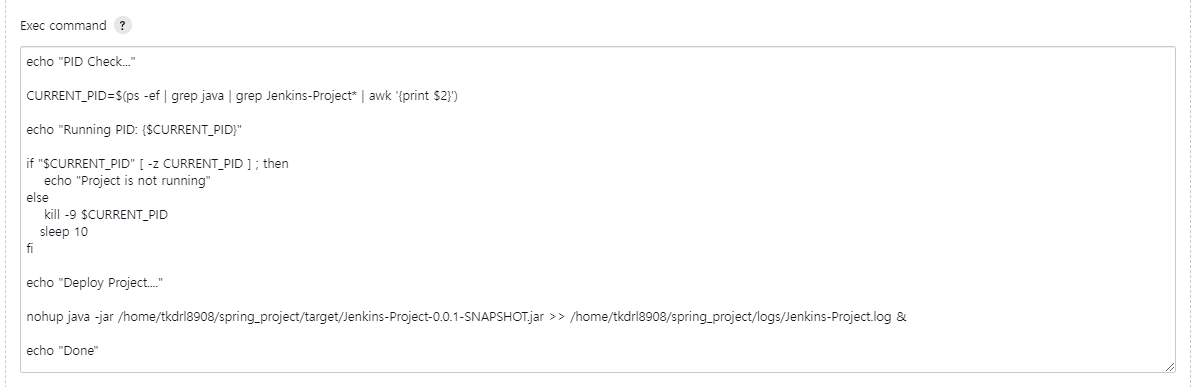
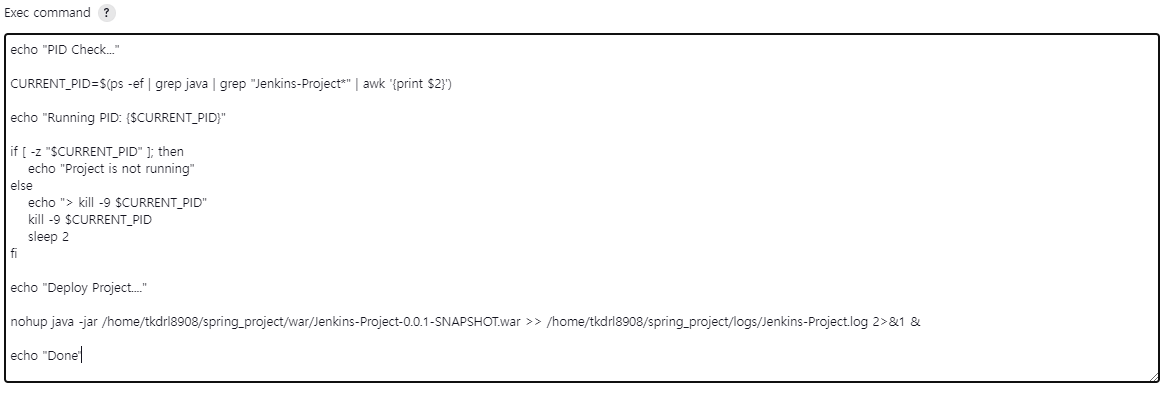
feat: jenkins github webhook post

Changed region(s): [[0.0, 0.0, 1.0, 0.9922]]

diff --git a/_posts/2023-07-18-jenkins(3).md b/_posts/2023-07-18-jenkins(3).md
@@ -1,5 +1,5 @@
 ---
-title: Jenkins 자동화 배포(3)
+title: Jenkins 자동빌드 및 배포(3)
 author: SangkiHan
 date: 2023-07-18 09:39:00 +0900
 categories: [CI/CD, Jenkins]
@@ -34,22 +34,21 @@ Jenkins-Project부분은 생성한 프로젝트명으로 바꿔주면된다.
 ```bash
 echo "PID Check..."
 
-# Jenkins-Project로 실행되고있는 PID찾기
-CURRENT_PID=$(ps -ef | grep java | grep Jenkins-Project* | awk '{print $2}')
+CURRENT_PID=$(ps -ef | grep java | grep "Jenkins-Project*" | awk '{print $2}')
 
 echo "Running PID: {$CURRENT_PID}"
 
-if "$CURRENT_PID" [ -z CURRENT_PID ] ; then
+if [ -z "$CURRENT_PID" ]; then
     echo "Project is not running"
-else
-# 있다면 강제 종료
+else
+    echo "> kill -9 $CURRENT_PID"
     kill -9 $CURRENT_PID
-   sleep 10 
+    sleep 2
 fi
 
 echo "Deploy Project...."
-# nohup으로 war파일 실행
-nohup java -jar /home/tkdrl8908/spring_project/target/Jenkins-Project-0.0.1-SNAPSHOT.war >> /home/tkdrl8908/spring_project/logs/Jenkins-Project.log &
+
+nohup java -jar /home/tkdrl8908/spring_project/war/Jenkins-Project-0.0.1-SNAPSHOT.war >> /home/tkdrl8908/spring_project/logs/Jenkins-Project.log 2>&1 &
 
 echo "Done"
 ```
@@ -63,3 +62,10 @@ echo "Done"
 ### 실행 포트 확인
 아래 명령어를 입력하면 정상적으로 application.properties에 설정되어있는 포트로 정상적으로 올라간 것을 확인 할 수 있다.
 ![Jenkins](/assets/img/post/2023-07-18-Jenkins(3)/7.PNG)
+
+```오류```
+처음에는 잘 실행이 됐지만 재실행을 하니 아래와 같이 오류가 발생하였다.  
+![Jenkins](/assets/img/post/2023-07-18-Jenkins(3)/8.PNG)
+아무리 수정해도 오류가 없어지지 않아.. /home/tkdrl8908 경로에 Script를 생성하여 그대로 실행하니 잘 실행이 되서 아래와 같이 수정하였다.
+![Jenkins](/assets/img/post/2023-07-18-Jenkins(3)/9.PNG)
+![Jenkins](/assets/img/post/2023-07-18-Jenkins(3)/10.PNG)

diff --git a/_posts/2023-07-18-Jenkins(4).md b/_posts/2023-07-18-Jenkins(4).md
@@ -1,0 +1,41 @@
+---
+title: Jenkins Webhook을 이용한 자동화배포(4)
+author: SangkiHan
+date: 2023-07-18 09:39:00 +0900
+categories: [CI/CD, Jenkins]
+tags: [CI/CD]
+---
+------------
+
+# Webhook이란?
+Webhook이란 앱이나 웹에서 이벤트가 생겼을 시 이벤트의 정보를 제공하는 기능이다.  
+이러한 기능을 Github에서 제공한다.  
+이 기능을 이용하여 Github에 소스가 Push가 됐을 시 Jenkins에게 이벤트정보를 전달하여 빌드 시작을 누르지 않더라도 자동화배포가 될 수 있도록 구성 할 것이다.
+
+------------
+# Github설정
+Jenkins에 생성한 Github Repo로 들어가 Settings를 들어가면 아래와 같은 Webhook설정을 확인할 수 있다.  
+아래 설정에서 Add webhook을 클릭한다.
+![Jenkins](/assets/img/post/2023-07-18-Jenkins(4)/1.PNG)
+
++ Payload URL: http://[Jenkins URL]/```github-webhook/```
++ Content type: application/json
+
+위 설정 기입 후 Add해준다.
+![Jenkins](/assets/img/post/2023-07-18-Jenkins(4)/2.PNG)
+
+------------
+# Jenkins Project 설정
+Webhook 설정을 할 Project 설정으로 들어가서 GitHub hook trigger for GITScm polling을 체크해주고 저장해주자
+![Jenkins](/assets/img/post/2023-07-18-Jenkins(4)/3.PNG)
+
+------------
+# 테스트
+아래와 같이 Spring boot 프로젝트 main화면을 아래와 같이 변경하고 Push하였다.
+![Jenkins](/assets/img/post/2023-07-18-Jenkins(4)/4.PNG)
+
+Push를 하면 바로 Jenkins Project 사이드바에 Build가 올라온 것을 확인할 수 있다.
+![Jenkins](/assets/img/post/2023-07-18-Jenkins(4)/5.PNG)
+
+정상배포가 된 것을 확인할 수 있다.
+![Jenkins](/assets/img/post/2023-07-18-Jenkins(4)/6.PNG)
